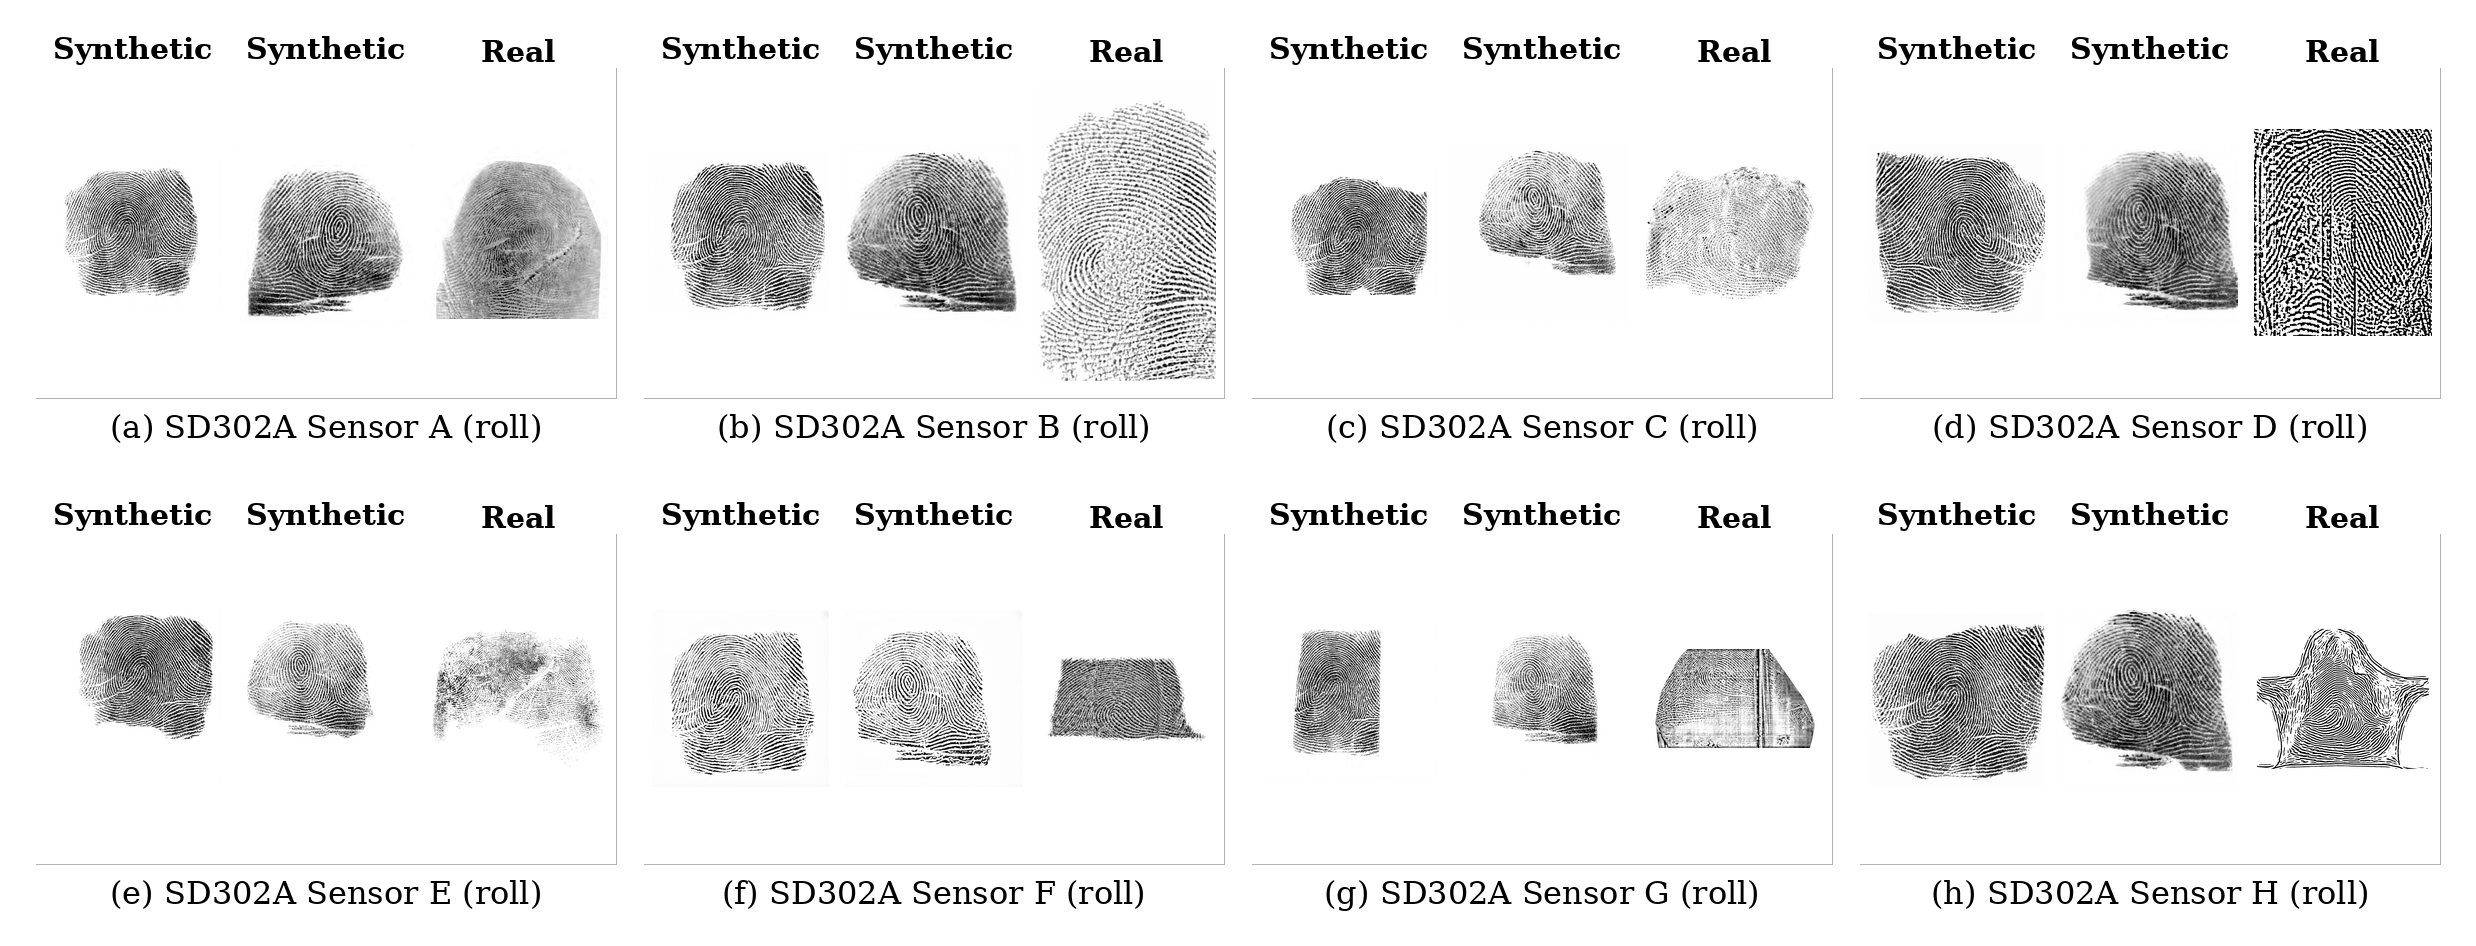
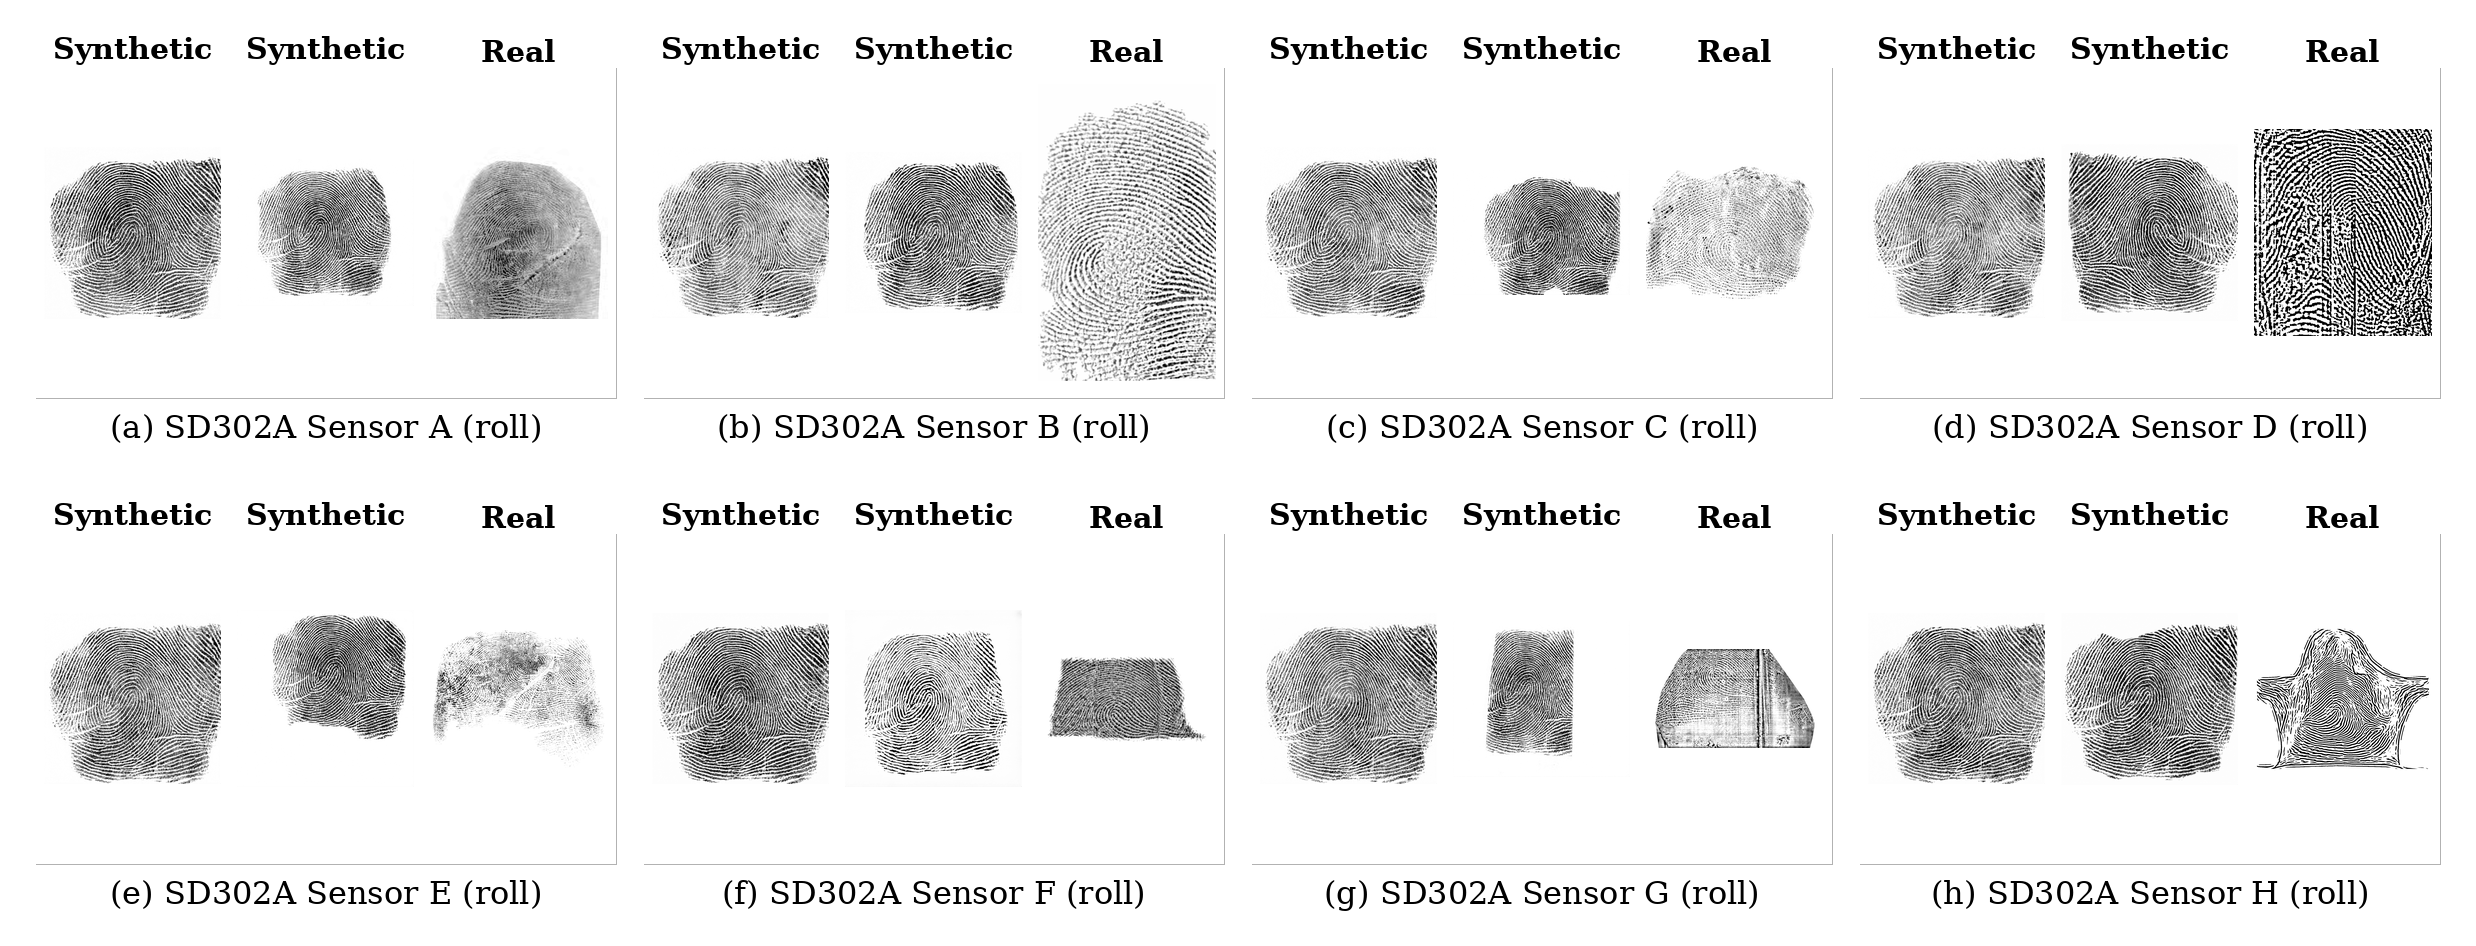
Clarify sensor overview synthetic variants

diff --git a/main.tex b/main.tex
@@ -282,8 +282,10 @@ inspected library and should be expanded before final generation.
     \includegraphics[width=\linewidth]{figures/qc_sensor_overview.png}
     \caption{Visual evaluation of generated and real SD302A fingerprints.
     Each sensor panel contains two synthetic samples and one real image from
-    the same SD302A sensor style, ordered left-to-right as synthetic,
-    synthetic, and real.  The panels separate sensors A--H to highlight
+    the same SD302A sensor style, ordered left-to-right as an unaugmented
+    ridge-conditioned synthetic image, an augmented-pose synthetic image from
+    the same identity, and a real image.  The panels separate sensors A--H to
+    highlight
     sensor-specific differences in crop geometry, background, contrast, and
     ridge clarity.}
     \label{fig:sensor_overview}